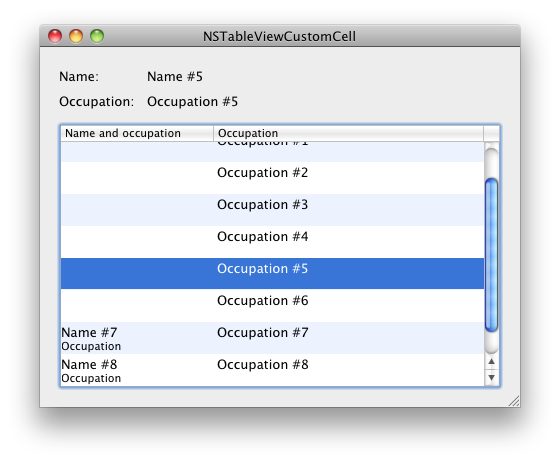
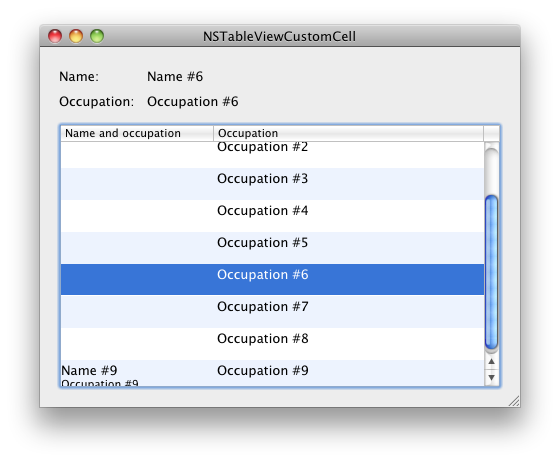
Added NSObjectWrapper and NSObjectTransformer.
+ The ArrayController now works with wrapped data items.
+ Added NSObjectTransformer for the binding of the first table view column.
+ Updated screenshot.

diff --git a/NSObjectTransformer.m b/NSObjectTransformer.m
@@ -1,0 +1,41 @@
+//
+//  NSObjectTransformer.m
+//  NSTableViewCustomCell
+//
+//  Created by Tobias Preuss on 04.05.11.
+//  Copyright 2011 Tobias Preuss. All rights reserved.
+//
+
+#import "NSObjectTransformer.h"
+#import "NSObjectWrapper.h"
+#import "DataItem.h"
+
+
+
+@implementation NSObjectTransformer
+
+
++ (Class)transformedValueClass {
+	
+	return [NSObjectWrapper class];
+}
+
+
++ (BOOL)allowsReverseTransformation {
+	
+	return YES;
+}
+
+
+- (id)transformedValue:(id)value {
+	
+    return (value == nil) ? nil : [[NSObjectWrapper alloc] initWithOriginal:value];
+}
+
+
+- (id)reverseTransformedValue:(id)value {
+	
+	return (value == nil) ? nil : [(NSObjectWrapper*)value original];
+}
+
+@end

diff --git a/CustomCell.m b/CustomCell.m
@@ -7,6 +7,8 @@
 //
 
 #import "CustomCell.h"
+#import "DataItem.h"
+#import "NSObjectWrapper.h"
 
 
 @implementation CustomCell
@@ -21,7 +23,12 @@
 		[controlView addSubview:m_view];
 	}
 	
-	[[m_view name] setStringValue:[self stringValue]];
+	// The array controller only gets wrapped data items pack by the NSObjectTransformer.
+	// Therefore, objectValue returns a NSObjectWrapper.
+	// Unpack the wrapper to retreive the data item.
+	DataItem* dataItem = [(NSObjectWrapper*)[self objectValue] original];
+	[[m_view name] setStringValue:dataItem.name];
+	[[m_view occupation] setStringValue:dataItem.occupation];
 	[m_view setFrame:cellFrame];
 }
 

diff --git a/NSObjectWrapper.m b/NSObjectWrapper.m
@@ -1,0 +1,43 @@
+//
+//  NSObjectWrapper.m
+//  NSTableViewCustomCell
+//
+//  Created by Tobias Preuss on 04.05.11.
+//  Copyright 2011 Tobias Preuss. All rights reserved.
+//
+
+#import "NSObjectWrapper.h"
+
+
+@implementation NSObjectWrapper
+
+
+@synthesize original = m_original;
+
+
+- (id)init {
+	
+	self = [super init];
+	if (self != nil) {
+		m_original = nil;
+	}
+	return self;
+}
+
+
+- (id)initWithOriginal:(id)original {
+
+	self = [self init];
+	if (self != nil) {
+		m_original = original;
+	}
+	return self;
+}
+
+
+- (id)copyWithZone:(NSZone*)zone {
+	
+	return [[NSObjectWrapper alloc] initWithOriginal:m_original];
+}
+
+@end

diff --git a/NSObjectWrapper.h b/NSObjectWrapper.h
@@ -1,0 +1,21 @@
+//
+//  NSObjectWrapper.h
+//  NSTableViewCustomCell
+//
+//  Created by Tobias Preuss on 04.05.11.
+//  Copyright 2011 Tobias Preuss. All rights reserved.
+//
+
+#import <Cocoa/Cocoa.h>
+
+
+@interface NSObjectWrapper : NSObject {
+
+	id			m_original;
+}
+
+@property (readwrite, assign) id original;
+
+- (id)initWithOriginal:(id)original;
+
+@end

diff --git a/NSObjectTransformer.h b/NSObjectTransformer.h
@@ -1,0 +1,16 @@
+//
+//  NSObjectTransformer.h
+//  NSTableViewCustomCell
+//
+//  Created by Tobias Preuss on 04.05.11.
+//  Copyright 2011 Tobias Preuss. All rights reserved.
+//
+
+#import <Cocoa/Cocoa.h>
+
+
+@interface NSObjectTransformer : NSValueTransformer {
+
+}
+
+@end
